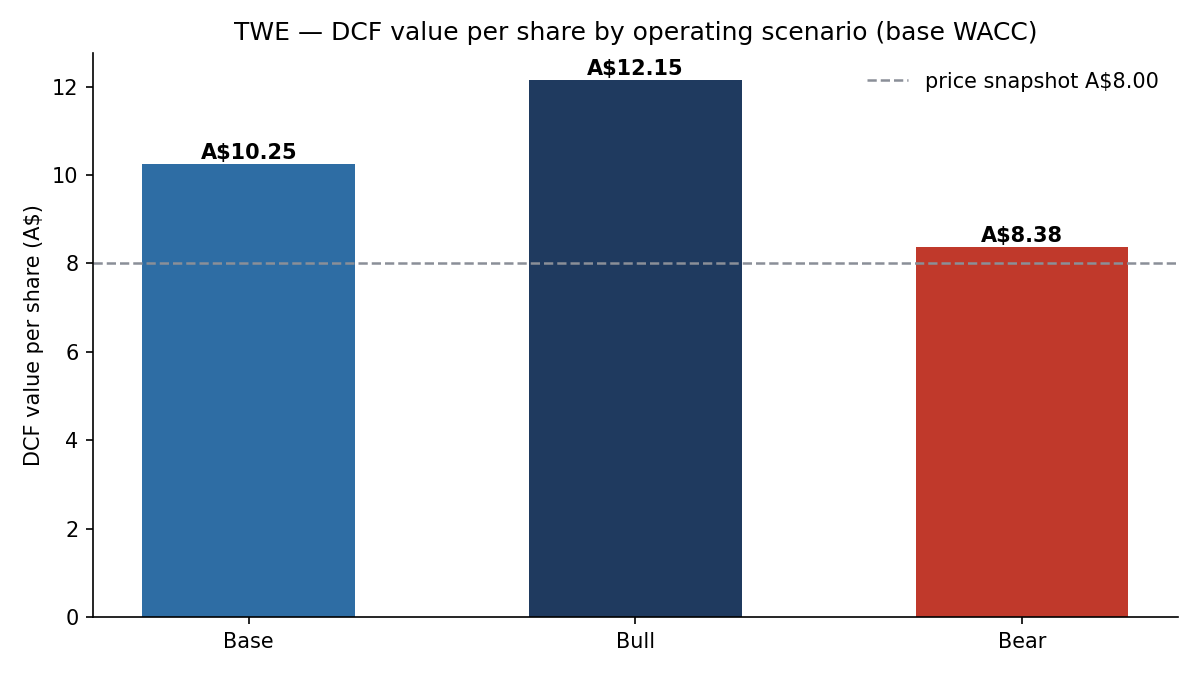
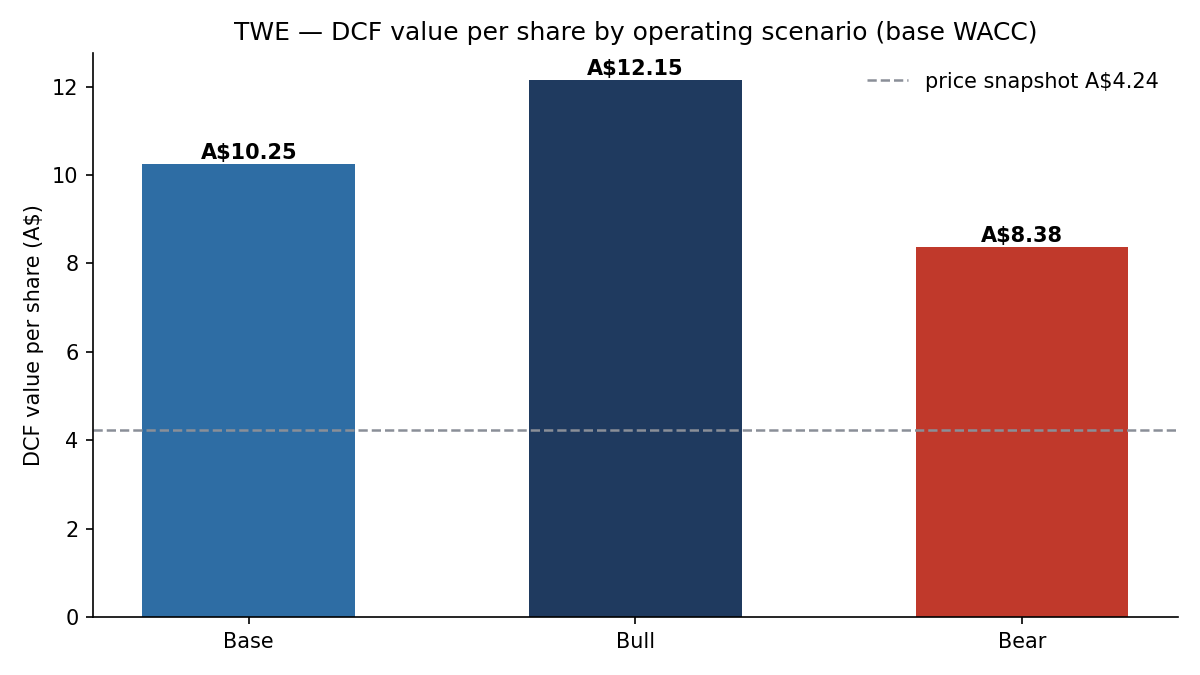
Correct price snapshot to late-May 2026 ASX quote (~A\.24); add market-gap interpretation to README

diff --git a/README.md b/README.md
@@ -39,11 +39,21 @@ assumptions/inputs.yaml   ->   src/valuation.py   ->   src/checks.py   ->   outp
 
 ## Results (illustrative inputs, FY2024-based)
 
-| Scenario | WACC | Value / share | vs A$8.00 snapshot |
-|---|---|---|---|
-| Bull — China luxury re-acceleration | 7.2% | **A$12.15** | +52% |
-| Base — steady premiumisation | 7.2% | **A$10.25** | +28% |
-| Bear — domestic margin squeeze | 7.2% | **A$8.38** | +5% |
+| Scenario | WACC | Value / share |
+|---|---|---|
+| Bull — China luxury re-acceleration | 7.2% | **A$12.15** |
+| Base — steady premiumisation | 7.2% | **A$10.25** |
+| Bear — domestic margin squeeze | 7.2% | **A$8.38** |
+
+**What the gap to the market price says.** At the late-May 2026 quote of ~A$4.24, the
+market price sits below the *most conservative cell of the entire sensitivity grid*
+(A$4.54 at WACC 10.5% × g 1.5%). In other words: no plausible discount-rate assumption
+reconciles FY24-anchored cash flows with today's price — the market is pricing
+**structurally weaker operating assumptions** (margin durability, China demand, tariff
+and impairment risk) than even this model's bear case. That is exactly what scenario
+modelling is for: the grid tells you the disagreement is about cash flows, not the
+discount rate, and directs the next round of work to the operating inputs. Refresh
+`assumptions/inputs.yaml` from the latest annual report before drawing any conclusion.
 
 WACC grid: **6.27% (easing) / 7.20% (base) / 8.12% (tightening)** — a ±100bp parallel
 rate shift moves the discount rate by roughly ±90bp at the target capital structure.
@@ -58,9 +68,11 @@ rate shift moves the discount rate by roughly ±90bp at the target capital struc
 
 **Reading the sensitivity table:** at base-scenario cash flows, the per-share value
 spans **A$4.54 – A$11.91** across WACC 7.5–10.5% × terminal growth 1.5–3.5% — the
-discount-rate assumption matters more than any single operating lever, which is why
-the model treats WACC as a scenario variable rather than a constant. Terminal value
-is ~80% of EV, typical for a 5-year explicit window and flagged by the checks layer.
+discount-rate assumption moves the answer more than any single operating lever, which
+is why the model treats WACC as a scenario variable rather than a constant. Terminal
+value is ~80% of EV, typical for a 5-year explicit window and flagged by the checks
+layer. Note the market price (~A$4.24) sits just below the grid's floor — see the
+gap discussion above.
 
 ## Run it
 
@@ -93,6 +105,7 @@ outputs/                   # generated charts + CSV tables (committed for the RE
 
 ## Disclaimer
 
-Inputs approximate TWE's published FY2024 results and mid-2025 market context and are
-**deliberately simplified for methodology demonstration**. This is a modelling
-portfolio piece, not investment research or advice.
+Inputs approximate TWE's published FY2024 results; the price snapshot is a late-May
+2026 ASX quote for context only. Everything is **deliberately simplified for
+methodology demonstration**. This is a modelling portfolio piece, not investment
+research or advice.